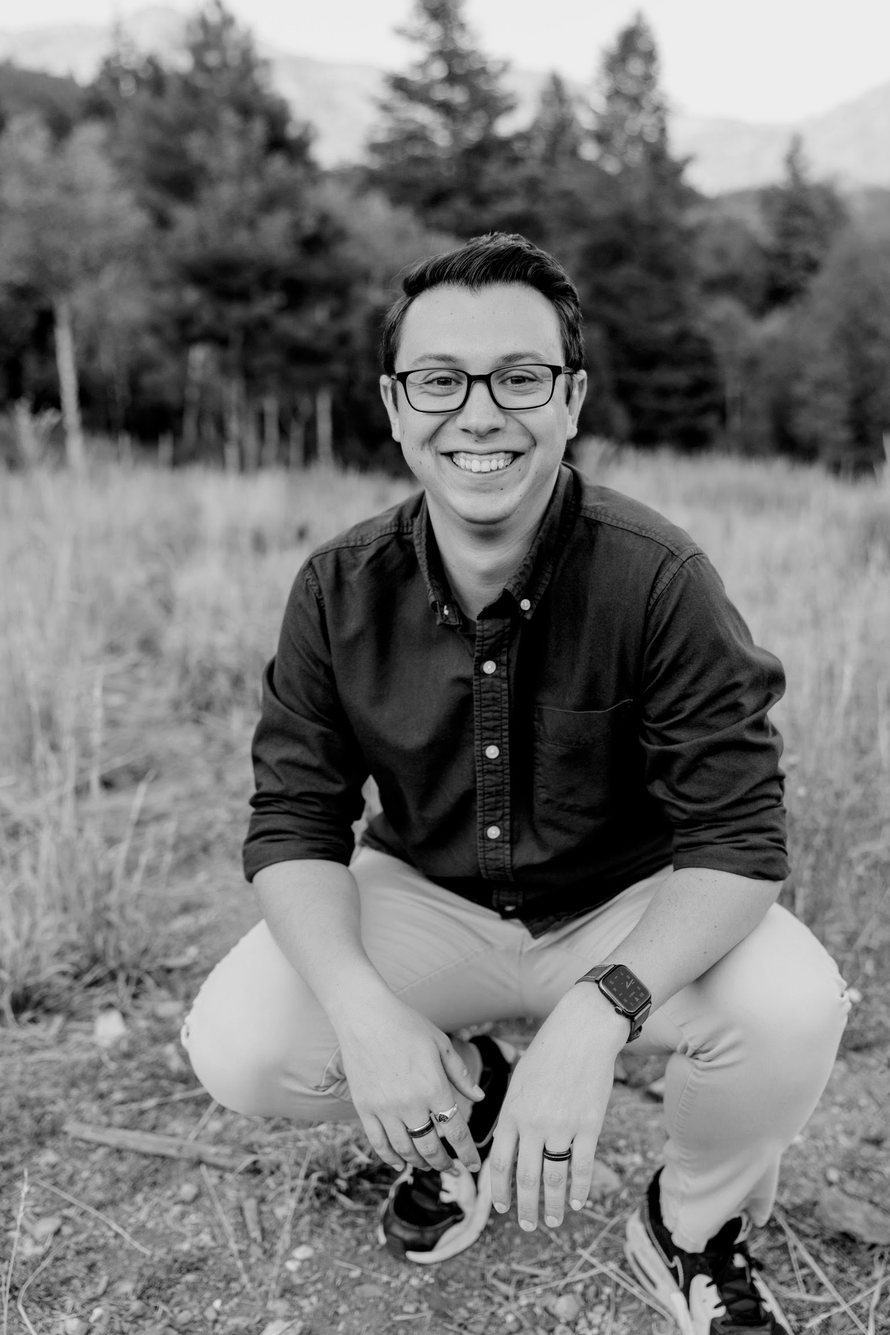
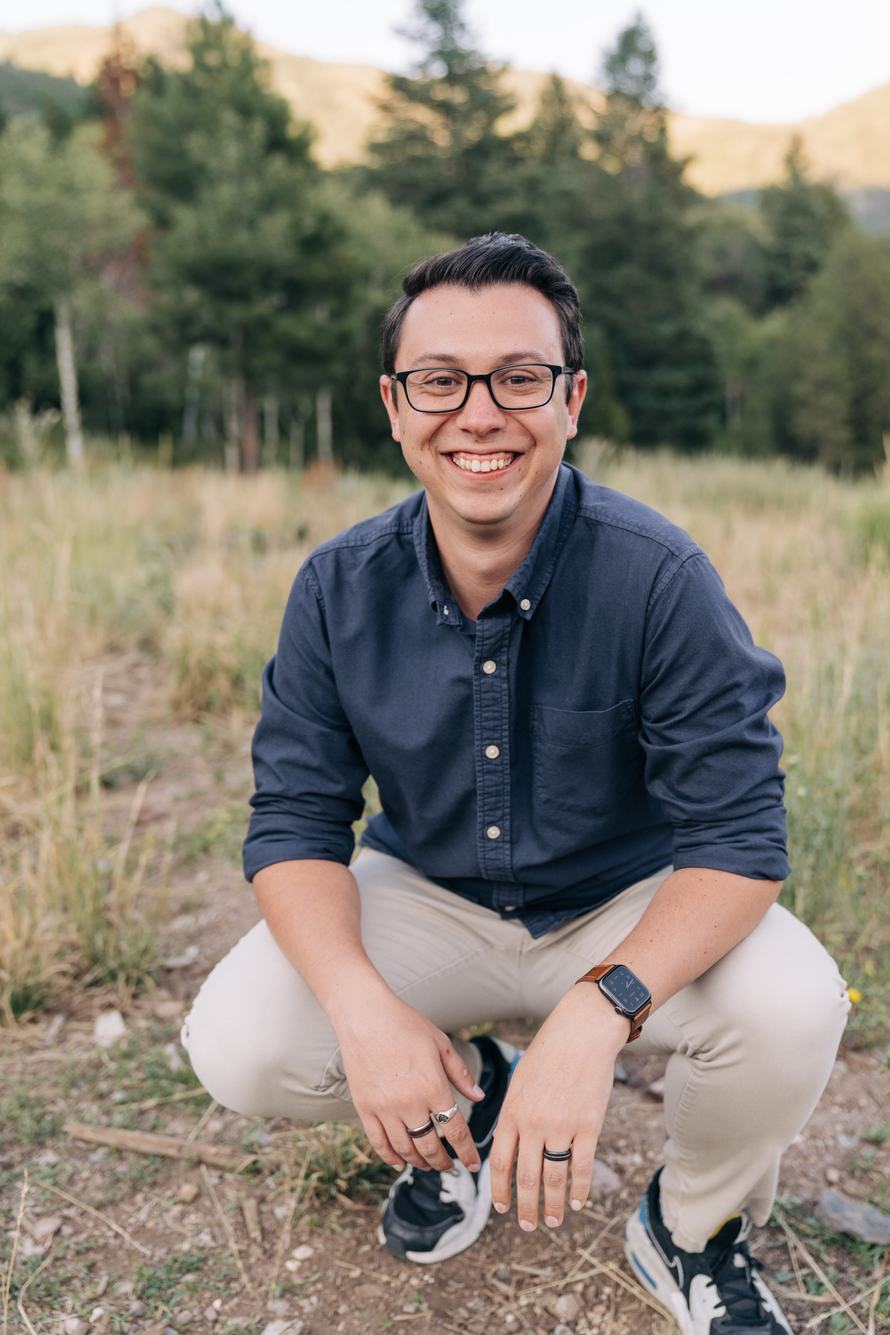
About page

diff --git a/src/Pages/About.js b/src/Pages/About.js
@@ -1,0 +1,39 @@
+import React from 'react';
+import { motion } from "framer-motion"
+import './AboutStyles.css';
+import myImage from './Images/HunterPhoto.jpg';
+
+const About = () => {
+    return (
+        <div className="about-container">
+            <motion.h1 initial={{ opacity: 0 }} animate={{ opacity: 1 }} transition={{ duration: 1 }}>About Me</motion.h1>
+            <div className="about-info">
+                <motion.div whileHover={{scale: 1.1}} initial={{ opacity: 0 }} animate={{ opacity: 1 }} transition={{ opacity: {duration: 1, delay: .3 }, scale: {duration: .3}}} className="about-image">
+                    <img src={myImage} alt="Hunter" />
+                </motion.div>
+                <div className="about-text">
+                    <motion.p initial={{ opacity: 0 }} animate={{ opacity: 1 }} transition={{ opacity: {duration: 1, delay: .6 }}}>
+                        <span className='intro'>Hi, I'm Hunter.</span> Currently, I'm a senior at Brigham Young University pursuing a degree in Computer Science. 
+                        I'm particularly interested in full-stack development, 
+                        and I enjoy working on both the front-end and back-end aspects of web applications.
+                    </motion.p>
+                    <motion.hr className='text-break' initial={{ opacity: 0 }} animate={{ opacity: 1 }} transition={{ opacity: {duration: 1, delay: .6 }}}/>
+                    <motion.p initial={{ opacity: 0 }} animate={{ opacity: 1 }} transition={{ opacity: {duration: 1, delay: .9 }}}>
+                        <span className='intro'>I excel</span> in a wide array of technologies and languages, from React and AWS to 
+                        SQL, Java, Python, JavaScript, HTML, and CSS. 
+                        My commitment to ongoing learning keeps me attuned to the latest tech trends, 
+                        ensuring I'm always equipped with the latest tools and techniques.
+                    </motion.p>
+                    <motion.hr className='text-break' initial={{ opacity: 0 }} animate={{ opacity: 1 }} transition={{ opacity: {duration: 1, delay: .9 }}}/>
+                    <motion.p initial={{ opacity: 0 }} animate={{ opacity: 1 }} transition={{ opacity: {duration: 1, delay: 1.2 }}}>
+                        <span className='intro'>Delivering tailored solutions,</span> I craft efficient web applications that drive results. 
+                        With a focus on innovation and staying current with industry trends, 
+                        I ensure your project stands out in today's digital landscape.
+                    </motion.p>
+                </div>
+            </div>
+        </div>
+    );
+};
+
+export default About;

diff --git a/src/Pages/AboutStyles.css b/src/Pages/AboutStyles.css
@@ -1,0 +1,73 @@
+.about-container {
+    display: flex;
+    justify-content: center;
+    align-items: center;
+    flex-direction: column;
+    padding: 20px;
+    padding-top: 120px;
+}
+
+.about-container h1 {
+    font-size: 6vw;
+    font-weight: bold;
+    color: #00dfb3;
+    padding: 10px;
+    margin-top: 10px;
+    margin-bottom: 10px;
+}
+
+.about-info {
+    display: flex;
+    justify-content: center;
+    align-items: center;
+    flex-direction: row;
+    flex-wrap: wrap;
+    margin-top: 20px;
+}
+
+.about-image {
+    margin-right: 20px;
+    border: 2px solid #00dfb3; /* Apply border directly to the image */
+    position: relative;
+    height: 373px;
+    width: 250px;
+}
+
+.about-image img {
+    width: 100%; /* Ensure image fills its container */
+    box-shadow: 0 5px 15px rgba(0, 0, 0, 0.25);
+    filter: grayscale(100%); /* Apply grayscale filter directly to the image */
+    object-fit: cover;
+    transition: all 0.3s ease-in-out; /* Add transition effect to filter property */
+}
+
+.about-image:hover img {
+    filter: grayscale(0); /* Remove grayscale filter on hover */
+    box-shadow: 0 5px 20px rgba(0, 0, 0, 0.5);
+}
+
+.about-text {
+    max-width: 600px;
+    color: #fff;
+}
+
+.about-text h2 {
+    font-size: 24px;
+    margin-bottom: 10px;
+}
+
+.about-text p {
+    font-size: 16px;
+    line-height: 1.6;
+    margin-bottom: 20px;
+}
+
+.text-break {
+    margin-bottom: 20px;
+    border-color: #00dfb3;
+}
+
+.intro {
+    color: #00dfb3;
+    font-weight: bold;
+}

diff --git a/src/App.js b/src/App.js
@@ -11,6 +11,7 @@ import Home from "./Pages/Home";
 import Experience from "./Pages/Experience";
 import Projects from "./Pages/Projects";
 import Contact from "./Pages/Contact";
+import About from "./Pages/About";
 import './App.css';
 
 function App() {
@@ -33,6 +34,7 @@ function AppContent() {
       <Navbar />
       <Routes className='Pages'>
         <Route index path="/" element={<Home />} />
+        <Route path="/about" element={<About />} />
         <Route path="/experience" element={<Experience />} />
         <Route path="/projects" element={<Projects />} />
         <Route path="/contact" element={<Contact />} />
